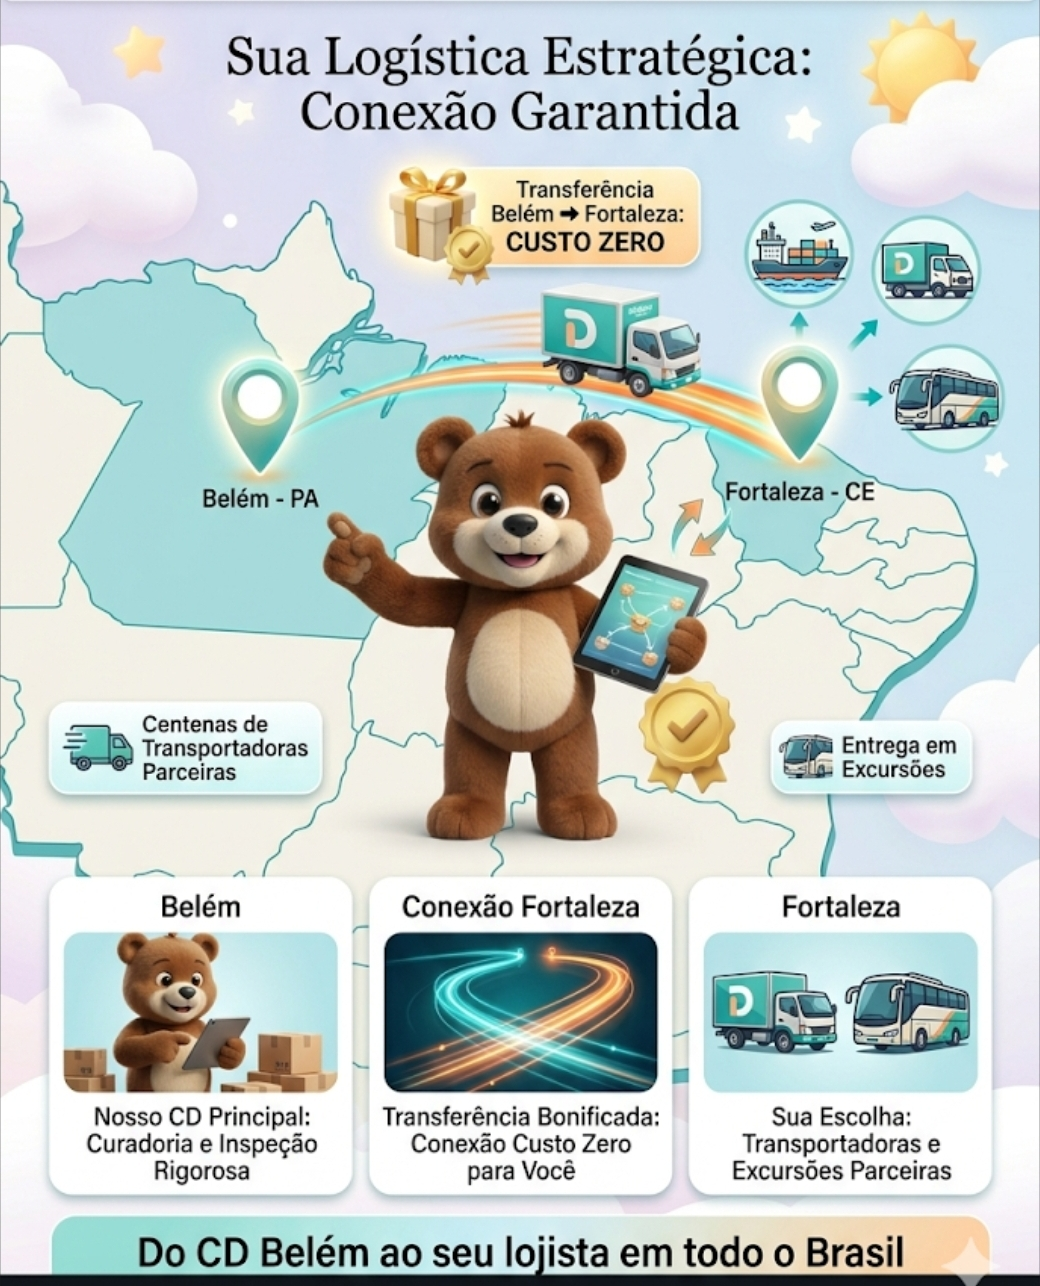
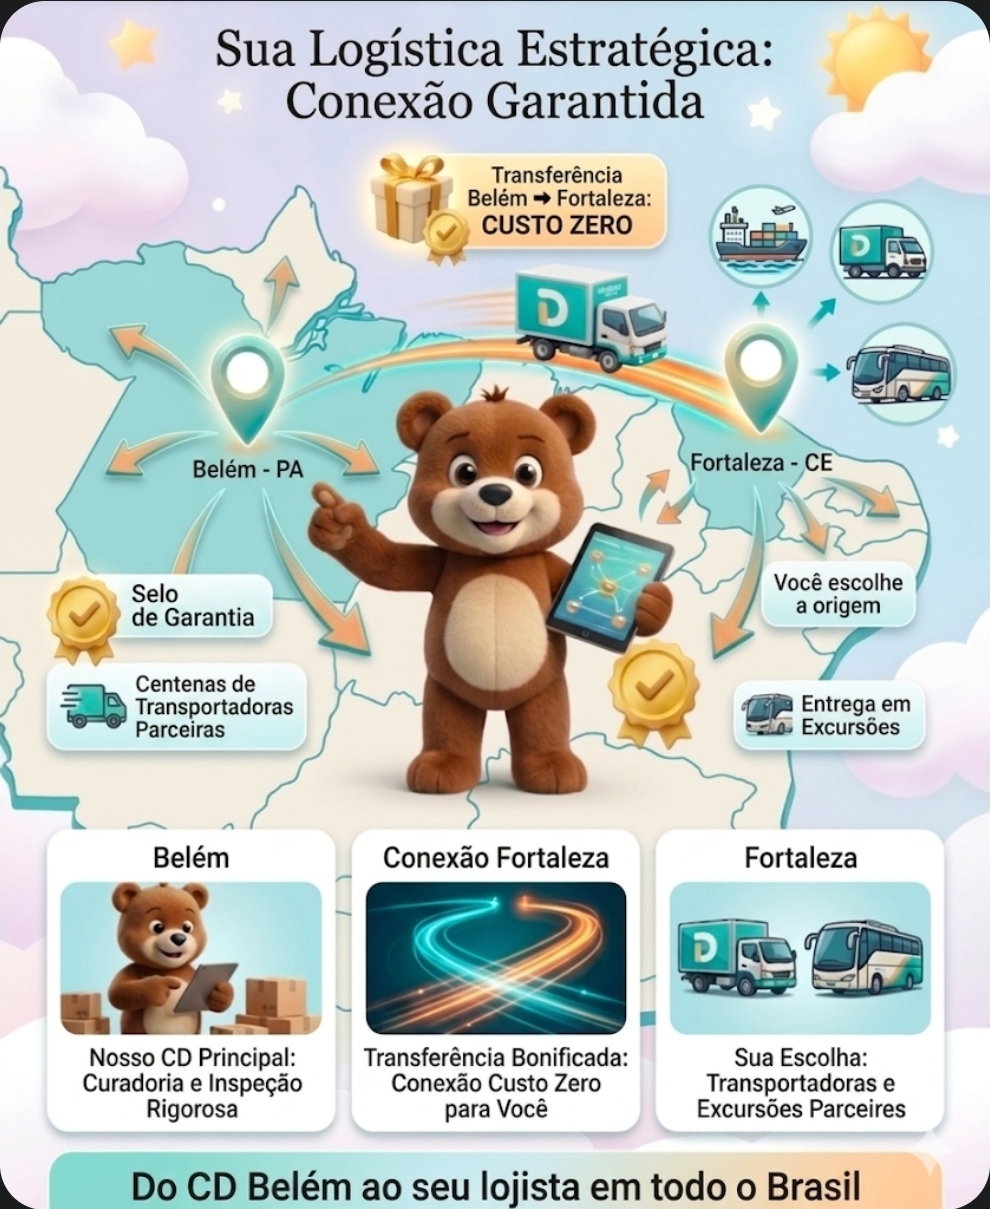
mudancas

diff --git a/components/BusinessLines/BusinessLines.js b/components/BusinessLines/BusinessLines.js
@@ -7,7 +7,7 @@ export default function BusinessLines() {
       id: 'giro',
       title: 'Dadaou Baby — O Coração da sua Loja',
       subtitle: 'Onde a economia inteligente encontra o carinho que o bebê precisa.',
-      description: 'Onde a economia inteligente encontra o carinho que o bebê precisa. O motor das vendas para o lojista. Peças com alto giro, preços competitivos e a qualidade que o mercado já confia desde 2006. Ideal para quem busca volume e quer oferecer o melhor custo-benefício para as famílias no dia a dia.',
+      description: 'O motor das vendas para o lojista. Peças com alto giro, preços competitivos e a qualidade que o mercado já confia desde 2006. Ideal para quem busca volume e quer oferecer o melhor custo-benefício para as famílias no dia a dia.',
       image: '/linha/urso.jpeg',
       color: '#fdf8e9', // Creme
       textColor: 'var(--text-main)',
@@ -17,7 +17,7 @@ export default function BusinessLines() {
       id: 'premium',
       title: 'Dadaou Baby PREMIUM — A Excelência ao seu Alcance',
       subtitle: 'Matérias-primas nobres e acabamento superior, com o preço acessível que só a Dadaou oferece',
-      description: 'Matérias-primas nobres e acabamento superior, com o preço acessível que só a Dadaou oferece. A nossa joia da coroa. Esta linha prova que sofisticação não precisa custar uma fortuna. Utilizamos materiais selecionados e um acabamento rigoroso para entregar um produto visivelmente superior, ideal para elevar o nível da sua vitrine. Mesmo com padrão de elite, mantemos o compromisso com o preço justo, garantindo que você ofereça exclusividade e requinte com um valor surpreendentemente acessível.',
+      description: 'A nossa joia da coroa. Esta linha prova que sofisticação não precisa custar uma fortuna. Utilizamos materiais selecionados e um acabamento rigoroso para entregar um produto visivelmente superior, ideal para elevar o nível da sua vitrine. Mesmo com padrão de elite, mantemos o compromisso com o preço justo, garantindo que você ofereça exclusividade e requinte com um valor surpreendentemente acessível.',
       image: '/linha/ursopremium.jpeg',
       color: '#48b5aa', // Verdinho/Teal
       textColor: '#ffffff',
@@ -43,7 +43,7 @@ export default function BusinessLines() {
               <span className={styles.lineTag} style={{ backgroundColor: lines[0].tagColor }}>{lines[0].subtitle}</span>
               <h3 className={styles.lineTitle}>{lines[0].title}</h3>
               <p className={styles.lineDescription}>{lines[0].description}</p>
-              <a href="https://wa.me/5511999999999" target="_blank" rel="noopener noreferrer" className={styles.ctaButton}>
+              <a href="https://wa.me/5591993057070" target="_blank" rel="noopener noreferrer" className={styles.ctaButton}>
                 Quero Revender esta Linha
               </a>
             </div>
@@ -74,7 +74,7 @@ export default function BusinessLines() {
               <span className={styles.lineTag} style={{ backgroundColor: lines[1].tagColor }}>{lines[1].subtitle}</span>
               <h3 className={styles.lineTitle}>{lines[1].title}</h3>
               <p className={styles.lineDescription}>{lines[1].description}</p>
-              <a href="https://wa.me/5511999999999" target="_blank" rel="noopener noreferrer" className={styles.ctaButton}>
+              <a href="https://wa.me/5591993057070" target="_blank" rel="noopener noreferrer" className={styles.ctaButton}>
                 Quero Revender esta Linha
               </a>
             </div>

diff --git a/components/CTA/CTA.js b/components/CTA/CTA.js
@@ -8,14 +8,14 @@ export default function CTA() {
           <div className={styles.content}>
             <span className={styles.label}>Oportunidade de Negócio</span>
             <h2 className={styles.title}>
-              Transforme sua loja com a <br />
-              <span className={styles.highlight}>Dadaou Baby</span>
+              Leve a Dadaou Baby para sua vitrine <br />
+              <span className={styles.highlight}>e encante seus clientes.</span>
             </h2>
             <p className={styles.text}>
               Junte-se a centenas de revendedores que já lucram com a marca que é sinônimo de amor e qualidade. Temos condições exclusivas para atacado.
             </p>
             <div className={styles.actions}>
-              <a href="https://wa.me/5511999999999" target="_blank" rel="noopener noreferrer" className={styles.button}>
+              <a href="https://wa.me/5591993057070" target="_blank" rel="noopener noreferrer" className={styles.button}>
                 Quero Revender Agora
               </a>
               <p className={styles.smallNote}>Atendimento rápido via WhatsApp</p>

diff --git a/components/Footer/Footer.js b/components/Footer/Footer.js
@@ -24,17 +24,17 @@ export default function Footer() {
             <h4>Navegação</h4>
             <Link href="#home">Início</Link>
             <Link href="#historia">Sobre Nós</Link>
-            <Link href="#linhas">Nossas Linhas</Link>
+            <Link href="#linhas">Nossos produtos</Link>
             <Link href="#logistica">Logística</Link>
           </div>
 
           <div className={styles.contact}>
             <h4>Contato</h4>
-            <p>Belém - PA | Fortaleza - CE</p>
+            <p>Belém - PA</p>
             <a href="mailto:[email redacted]">[email redacted]</a>
             <div className={styles.social}>
               <a href="https://www.instagram.com/dadaoubaby" target="_blank" rel="noopener noreferrer" className={styles.socialIcon}>Instagram</a>
-              <a href="#" className={styles.socialIcon}>WhatsApp</a>
+              <a href="https://wa.me/[phone redacted]" target="_blank" rel="noopener noreferrer" className={styles.socialIcon}>WhatsApp</a>
             </div>
           </div>
         </div>

diff --git a/components/Header/Header.js b/components/Header/Header.js
@@ -43,7 +43,7 @@ export default function Header() {
 
         {/* Mobile Toggle */}
         <div className={styles.mobileActions}>
-          <a href="https://wa.me/[phone redacted]" className={styles.mobileCta}>WhatsApp</a>
+          <a href="https://wa.me/[phone redacted]" target="_blank" rel="noopener noreferrer" className={styles.mobileCta}>WhatsApp</a>
           <button className={`${styles.hamburger} ${menuOpen ? styles.open : ''}`} onClick={toggleMenu} aria-label="Menu">
             <span></span>
             <span></span>
@@ -56,7 +56,7 @@ export default function Header() {
       <div className={`${styles.menuOverlay} ${menuOpen ? styles.menuVisible : ''}`}>
         <nav className={styles.mobileNav}>
           <Link href="#home" onClick={toggleMenu}>Início</Link>
-          <Link href="#historia" onClick={toggleMenu}>sobre Nós</Link>
+          <Link href="#historia" onClick={toggleMenu}>Sobre nós</Link>
           <Link href="#linhas" onClick={toggleMenu}>Linhas de Negócio</Link>
           <Link href="#logistica" onClick={toggleMenu}>Logística</Link>
           <Link href="#contato" className={styles.mobileMenuCta} onClick={toggleMenu}>Seja um Revendedor</Link>

diff --git a/app/home/page.js b/app/home/page.js
@@ -21,7 +21,7 @@ export default function HomePage() {
       <BusinessLines />
       <MascotSection />
       <Logistics />
-      <PartnerJourney />
+      {/* <PartnerJourney /> */}
       <CTA />
       
       <footer className={styles.footer}>

diff --git a/components/BrandStory/BrandStory.js b/components/BrandStory/BrandStory.js
@@ -85,7 +85,7 @@ export default function BrandStory() {
             </div>
           </div>
           
-          <a href="https://wa.me/5511999999999" target="_blank" rel="noopener noreferrer" className={styles.button}>Seja um Revendedor Agora</a>
+          <a href="https://wa.me/5591993057070" target="_blank" rel="noopener noreferrer" className={styles.button}>Seja um Revendedor Agora</a>
         </div>
       </div>
     </section>

diff --git a/components/Hero/Hero.js b/components/Hero/Hero.js
@@ -77,7 +77,7 @@ export default function Hero() {
             Do primeiro lookinho aos acessórios essenciais: Tudo o que o seu bebê precisa em um só lugar. Qualidade premium para os pequenos exploradores.
           </p>
           <div className={styles.actions}>
-            <a href="https://wa.me/5511999999999" target="_blank" rel="noopener noreferrer" className={styles.primaryBtn}>
+            <a href="https://wa.me/5591993057070" target="_blank" rel="noopener noreferrer" className={styles.primaryBtn}>
               Quero ser Revendedor
             </a>
           </div>

diff --git a/components/Logistics/Logistics.js b/components/Logistics/Logistics.js
@@ -9,7 +9,7 @@ export default function Logistics() {
           <span className={styles.label}>Vantagem Logística B2B</span>
           <h2 className={styles.title}>De Belém para o <span className={styles.highlight}>Brasil</span></h2>
           <p className={styles.text}>
-            Encurtamos distâncias e eliminamos custos para que suas mercadorias cheguem mais rápido e com o melhor custo-benefício do Brasil. Para sua total conveniência, operamos com envios estratégicos partindo de Belém ou Fortaleza — você escolhe o ponto que melhor atende à sua logística.
+           Encurtamos distâncias e eliminamos custos para que suas mercadorias cheguem mais rápido e com o melhor custo-benefício do Brasil. Com envios estratégicos partindo de Belém ou Fortaleza, você escolhe o ponto ideal para sua logística. E não importa onde você esteja: nossa equipe busca ativamente a melhor e mais barata opção de frete para atender a sua região.
           </p>
           
           <div className={styles.routeBox}>

diff --git a/components/WhatsAppFloating/WhatsAppFloating.js b/components/WhatsAppFloating/WhatsAppFloating.js
@@ -1,7 +1,7 @@
 import styles from './WhatsAppFloating.module.css';
 
 export default function WhatsAppFloating() {
-  const whatsappNumber = "5511999999999"; // Substituir pelo número real
+  const whatsappNumber = "5591993057070"; // Oficial Dadaou Baby
   const message = "Olá! Gostaria de saber mais sobre como ser um revendedor Dadaou Baby.";
   const whatsappUrl = `https://wa.me/${whatsappNumber}?text=${encodeURIComponent(message)}`;
 